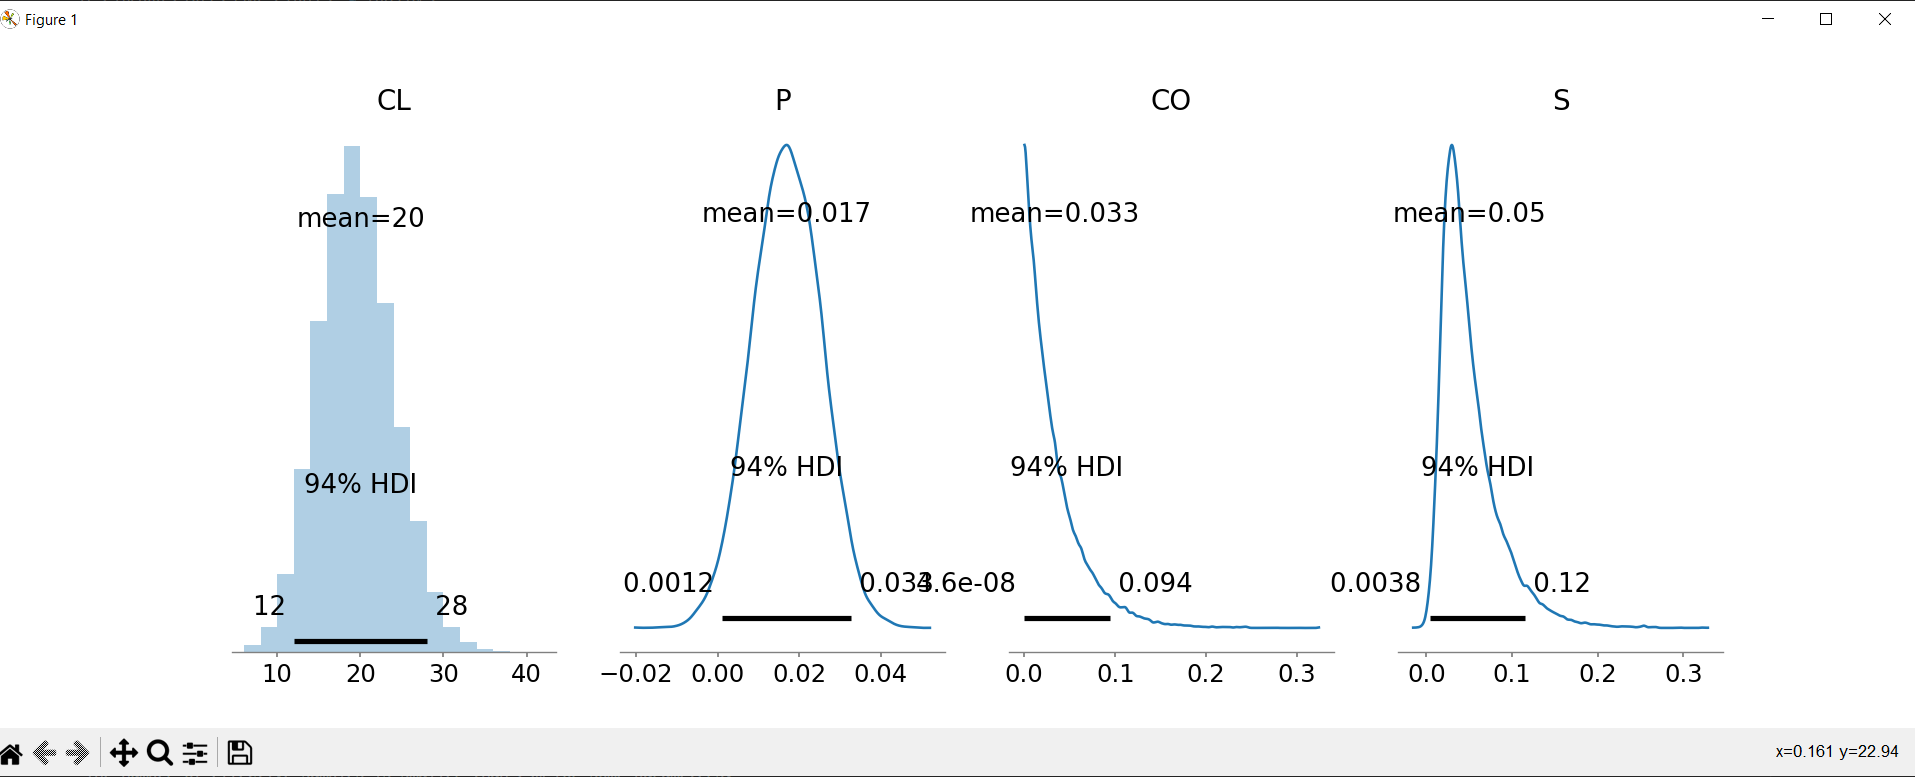
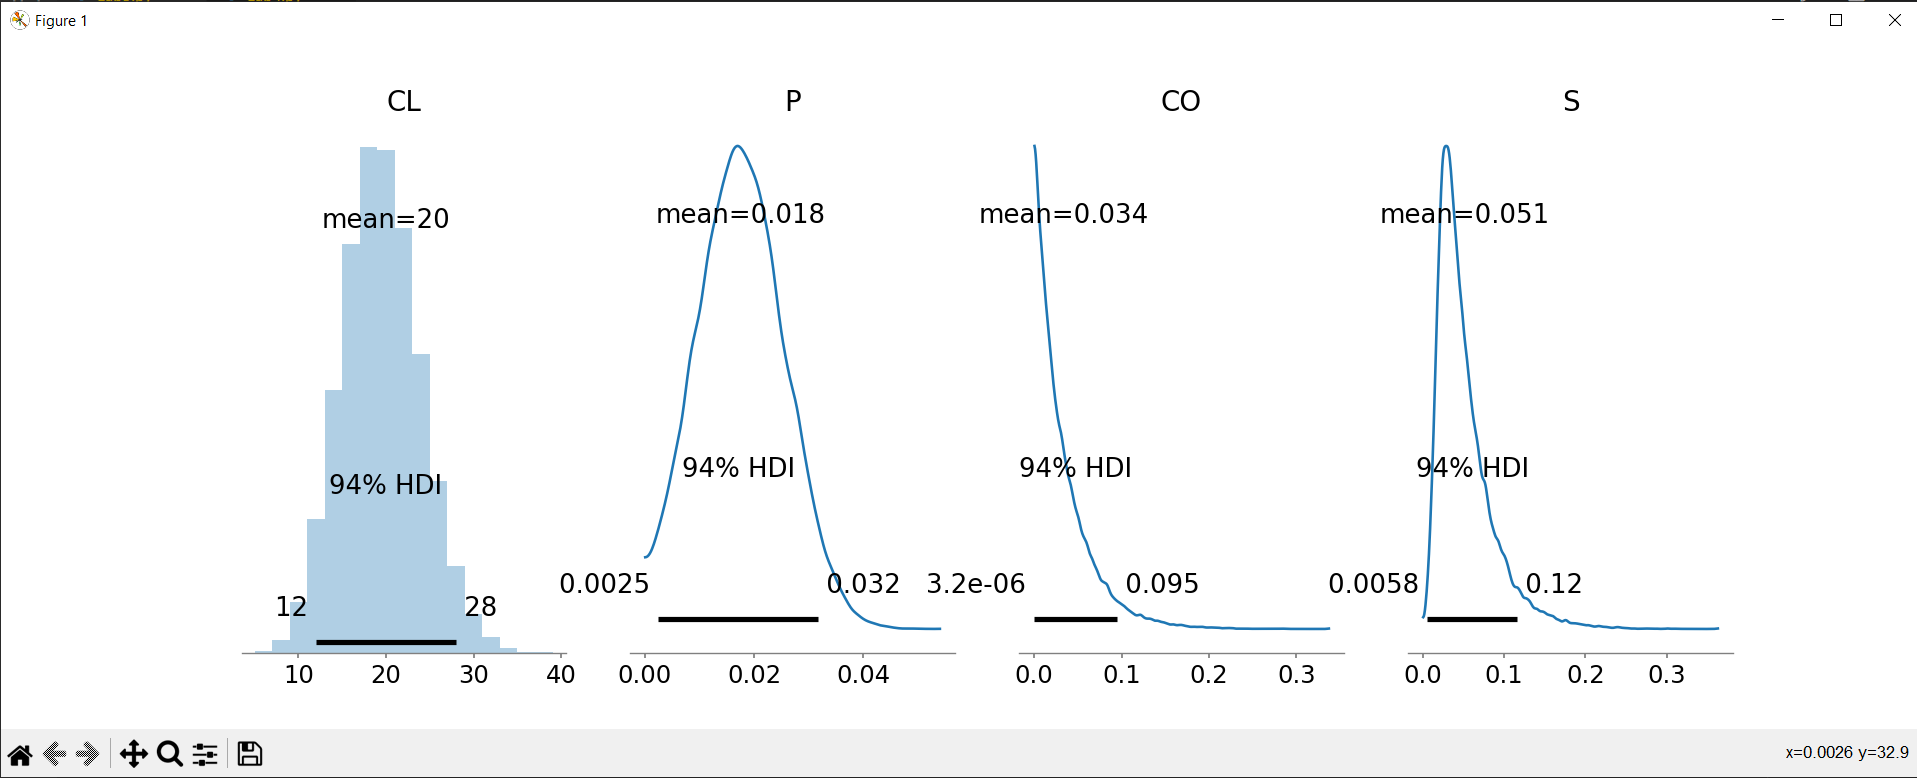
Add files via upload

diff --git a/Lab4/Lab4.py b/Lab4/Lab4.py
@@ -12,7 +12,7 @@ if __name__ == '__main__':
     model = pm.Model()
     with model:
         clienti = pm.Poisson('CL', 20)
-        plata = pm.Normal('P', 0.017, 0.0083)
+        plata = pm.TruncatedNormal('P', 0.017, 0.0083, lower=0)
         cook = pm.Exponential('CO', 1/alf)
         # Serve este timpul necesar ca un client sa fie servit, de cand intra in magazin si pana intra
         serve = pm.Deterministic('S', plata + cook)
